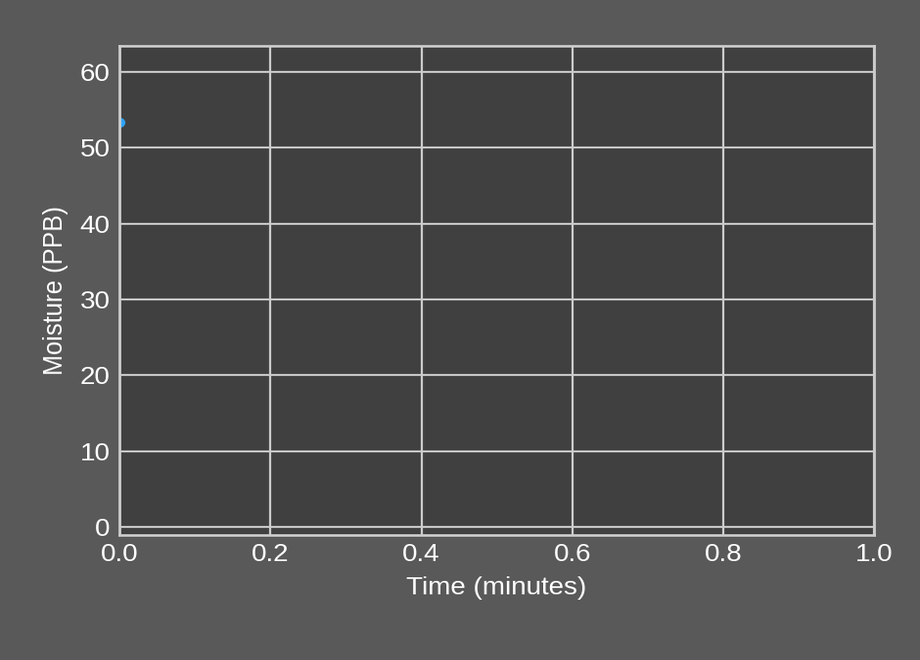
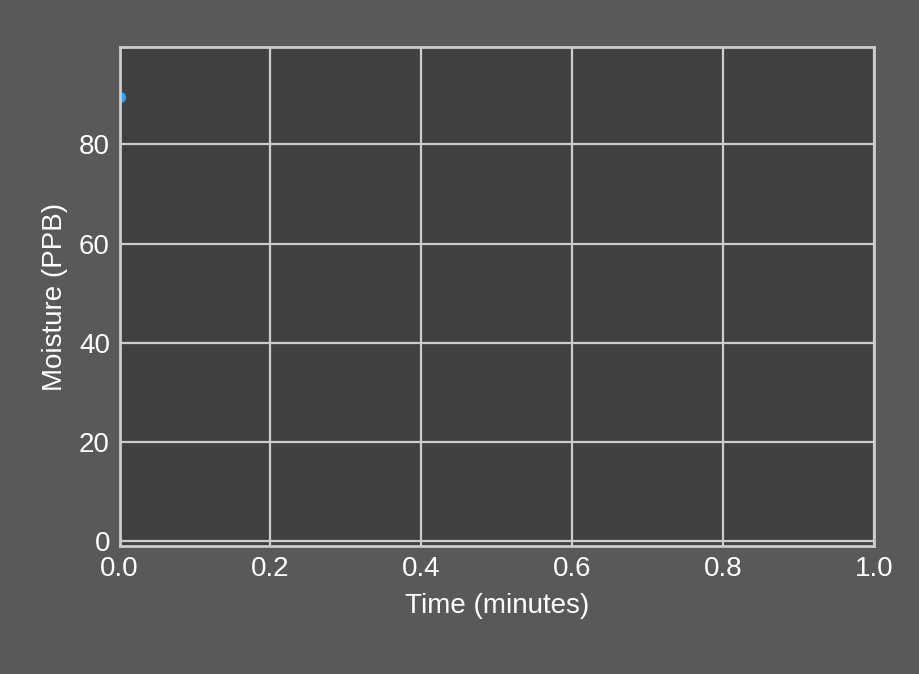
split file, extend figure

diff --git a/TGView.py b/TGView.py
@@ -554,24 +554,17 @@ style.use("seaborn-whitegrid")
 global a1, a2, a3
 # global f1, f2
 figure_conf = AdjustFigure.default_figure_conf()
-ext_figure_conf = AdjustFigure.ext_figure_conf()
 
 f1 = Figure(figsize=(figure_conf['w'], figure_conf['h']), dpi=figure_conf['dpi'],
             facecolor=(0.35, 0.35, 0.35))  # Figure(figsize=(7,6),dpi=100
 f2 = Figure(figsize=(figure_conf['w'], figure_conf['h']), dpi=figure_conf['dpi'],
             facecolor=(0.35, 0.35, 0.35))  # Figure(figsize=(7,6),dpi=100
-f3 = Figure(figsize=(ext_figure_conf['w'], ext_figure_conf['h']), dpi=ext_figure_conf['dpi'],
-            facecolor=(0.35, 0.35, 0.35))  # Figure(figsize=(7,6),dpi=100
 
 # Testing a combined figure with two subplots 9/3/2020
-# f3 = Figure(figsize=(7,3),dpi=200, facecolor=(0.35,0.35,0.35))
-# a3 = f3.add_subplot(211,facecolor=(0.25,0.25,0.25))
 
 a1 = f1.add_subplot(111, facecolor=(0.25, 0.25, 0.25))  # (121,
 a2 = f2.add_subplot(111, facecolor=(0.25, 0.25, 0.25))  # f1 (122,
-a3 = f3.add_subplot(111, facecolor=(0.25, 0.25, 0.25))  # f1 (122,
 
-f3.subplots_adjust(left=0.13, right=0.95, bottom=0.19, top=0.93, hspace=0.3)
 f2.subplots_adjust(left=0.13, right=0.95, bottom=0.19, top=0.93, hspace=0.3)
 f1.subplots_adjust(left=0.13, right=0.95, bottom=0.19, top=0.93, hspace=0.3)
 # f1.set_tight_layout(True)
@@ -3587,17 +3580,17 @@ def replace_images():
     if var2.get() == 'radBoth':
         if place_info_img.get('x') != 20:
             img.place(x=20, y=200)
-            labelO2.place(x=400, y=805)
-            labelO2_value.place(x=600, y=802)
+            labelO2.place(x=400, y=820)
+            labelO2_value.place(x=600, y=815)
         if place_info_img3.get('x') != 970:
             img3.place(x=970, y=200)
-            labelH2O.place(x=1350, y=805)
-            labelH2O_value.place(x=1550, y=802)
+            labelH2O.place(x=1350, y=820)
+            labelH2O_value.place(x=1550, y=815)
     elif var2.get() == 'radH2O':
         if place_info_img3.get('x') != 970:
             img3.place(x=20, y=200)
-            labelH2O.place(x=880, y=805)
-            labelH2O_value.place(x=1080, y=802)
+            labelH2O.place(x=880, y=820)
+            labelH2O_value.place(x=1080, y=815)
             img.place_forget()
             labelO2.place_forget()
             labelO2_value.place_forget()
@@ -3605,8 +3598,8 @@ def replace_images():
         if place_info_img.get('x') != 20:
             img.place(x=20, y=200)
             img3.place_forget()
-            labelO2.place(x=880, y=805)
-            labelO2_value.place(x=1080, y=802)
+            labelO2.place(x=880, y=820)
+            labelO2_value.place(x=1080, y=815)
             labelH2O.place_forget()
             labelH2O_value.place_forget()
 
@@ -3864,9 +3857,6 @@ def animateh2o(i):
 
         if var2.get() == 'radH2O':
             plot_axes_h2o(h2oxList, h2oyList, a2)
-            a3.clear()
-            a3.ticklabel_format(useOffset=False)
-            plot_axes_h2o(h2oxList, h2oyList, a3)
 
         h2ofileTitle = "H2O"
 
@@ -3882,20 +3872,22 @@ def animateh2o(i):
 
                 h.flush()
         try:
-            basewidth = 920
+            figure_conf = AdjustFigure.default_figure_conf()
+            fig_width, fig_height = f2.get_size_inches()
             if var2.get() == 'radH2O':
-                f3.savefig('graphH2O.png', facecolor=f3.get_facecolor(), edgecolor="none")
-                basewidth = 920 * 2
-            else:
-                f2.savefig('graphH2O.png', facecolor=f2.get_facecolor(), edgecolor="none")
+                figure_conf = AdjustFigure.ext_figure_conf()
+            if fig_width != figure_conf['w']:
+                f2.set_size_inches(figure_conf['w'], figure_conf['h'])
+
+            f2.savefig('graphH2O.png', facecolor=f2.get_facecolor(), edgecolor="none")
             global img3
 
-            imgh = Image.open('graphH2O.png')
-            wpercent = (basewidth / float(imgh.size[0]))
-            hsize = int((float(imgh.size[1]) * float(wpercent) * .92))  # 0.84
-            imgh = imgh.resize((basewidth, hsize), Image.ANTIALIAS)
-
-            imgh.save('graphH2O.png')
+            # imgh = Image.open('graphH2O.png')
+            # wpercent = (basewidth / float(imgh.size[0]))
+            # hsize = int((float(imgh.size[1]) * float(wpercent) * .92))  # 0.84
+            # imgh = imgh.resize((basewidth, hsize), Image.ANTIALIAS)
+            #
+            # imgh.save('graphH2O.png')
             img4 = ImageTk.PhotoImage(Image.open('graphH2O.png'))
             img3.configure(image=img4)
             img3.image = img4
@@ -4107,9 +4099,6 @@ def animateo2(i):  #### animation function. despite the name it actually animate
             markerStyle = '.'
             if var2.get() == 'radO2':
                 plot_axes_o2(o2xList, o2yList, a1)
-                a3.clear()
-                a3.ticklabel_format(useOffset=False)
-                plot_axes_o2(o2xList, o2yList, a3)
                 # o2xMax = max(o2xList)
                 # if o2data_min < 0:
                 #     a1.set_ylim(o2data_min - 10, o2data_max + 10)
@@ -4170,21 +4159,21 @@ def animateo2(i):  #### animation function. despite the name it actually animate
 
                     o.flush()
         try:
-
-            basewidth = 920
-
+            figure_conf = AdjustFigure.default_figure_conf()
+            fig_width, fig_height = f1.get_size_inches()
             if var2.get() == 'radO2':
-                f1.set_size_inches(9.4, 3.67)
-                f1.savefig('graphO2.png', facecolor=f1.get_facecolor(), edgecolor="none")
-                basewidth = basewidth * 2
-            else:
-                f1.savefig('graphO2.png', facecolor=f1.get_facecolor(), edgecolor="none")
+                figure_conf = AdjustFigure.ext_figure_conf()
 
-            imgg = Image.open('graphO2.png')
-            wpercent = (basewidth / float(imgg.size[0]))
-            hsize = int((float(imgg.size[1]) * float(wpercent) * 0.92))  # 0.84
-            imgg = imgg.resize((basewidth, hsize), Image.ANTIALIAS)
-            imgg.save('graphO2.png')
+            if fig_width != figure_conf['w']:
+                f1.set_size_inches(figure_conf['w'], figure_conf['h'])
+            # basewidth = figure_conf['w']*figure_conf['dpi']
+
+            f1.savefig('graphO2.png', facecolor=f1.get_facecolor(), edgecolor="none")
+            # imgg = Image.open('graphO2.png')
+            # wpercent = (basewidth / float(imgg.size[0]))
+            # hsize = int((float(imgg.size[1]) * float(wpercent) * 0.92))  # 0.84
+            # imgg = imgg.resize((basewidth, hsize), Image.ANTIALIAS)
+            # imgg.save('graphO2.png')
             img2 = ImageTk.PhotoImage(Image.open('graphO2.png'))
             img.configure(image=img2)
             img.image = img2

diff --git a/AdjustFigure.py b/AdjustFigure.py
@@ -2,16 +2,16 @@ class AdjustFigure:
     @classmethod
     def ext_figure_conf(cls):
         return {
-            'w': 9.4,
-            'h': 3.67,
+            'w': 9.2,
+            'h': 3.37,
             'dpi': 200
         }
 
     @classmethod
     def default_figure_conf(cls):
         return {
-            'w': 4.7,
-            'h': 3.67,
+            'w': 4.6,
+            'h': 3.37,
             'dpi': 200
         }
         pass
